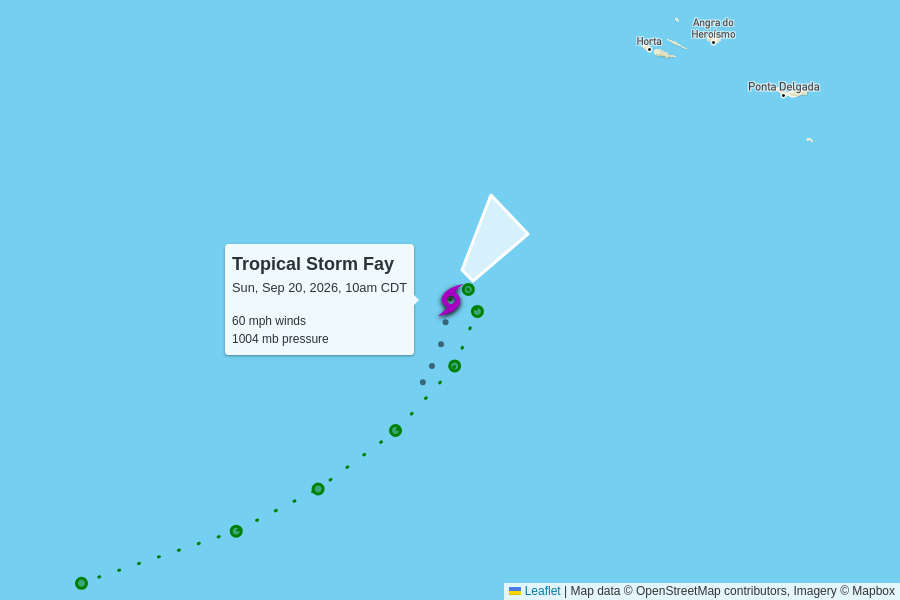
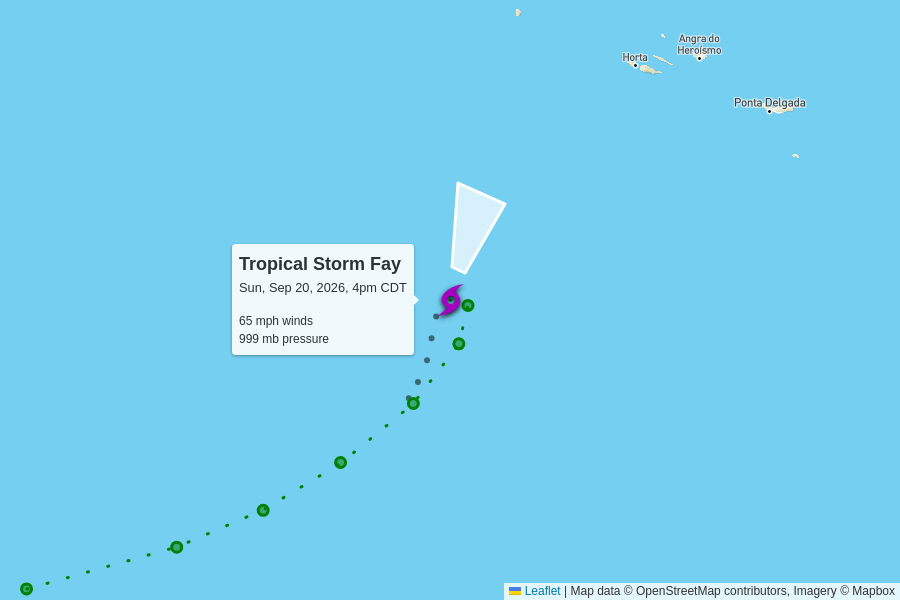
automatic update

diff --git a/docs/2026.html b/docs/2026.html
@@ -45,13 +45,13 @@
       <grid-container>
           <grid-row>
             <script type="text/json" id="storm_data_AL062026">
-              {"pressure":[{"timestamp":"2026-09-19T15:00:00.000Z","value":1009},{"timestamp":"2026-09-19T21:00:00.000Z","value":1007},{"timestamp":"2026-09-20T03:00:00.000Z","value":1007},{"timestamp":"2026-09-20T09:00:00.000Z","value":1004},{"timestamp":"2026-09-20T15:00:00.000Z","value":1004}],"wind":[{"timestamp":"2026-09-19T15:00:00.000Z","value":35},{"timestamp":"2026-09-19T21:00:00.000Z","value":35},{"timestamp":"2026-09-20T03:00:00.000Z","value":35},{"timestamp":"2026-09-20T09:00:00.000Z","value":45},{"timestamp":"2026-09-20T15:00:00.000Z","value":60}]}
+              {"pressure":[{"timestamp":"2026-09-19T15:00:00.000Z","value":1009},{"timestamp":"2026-09-19T21:00:00.000Z","value":1007},{"timestamp":"2026-09-20T03:00:00.000Z","value":1007},{"timestamp":"2026-09-20T09:00:00.000Z","value":1004},{"timestamp":"2026-09-20T15:00:00.000Z","value":1004},{"timestamp":"2026-09-20T21:00:00.000Z","value":999}],"wind":[{"timestamp":"2026-09-19T15:00:00.000Z","value":35},{"timestamp":"2026-09-19T21:00:00.000Z","value":35},{"timestamp":"2026-09-20T03:00:00.000Z","value":35},{"timestamp":"2026-09-20T09:00:00.000Z","value":45},{"timestamp":"2026-09-20T15:00:00.000Z","value":60},{"timestamp":"2026-09-20T21:00:00.000Z","value":65}]}
             </script>              <grid-container class="storm">
                 <grid-row onClick="toggle('storm_AL062026')">
                   <h2>
                     Tropical Storm Fay
                     <div class="updated">
-                      last updated <time datetime="2026-09-20T15:00:00.000Z">2026-09-20T15:00:00.000Z</time>
+                      last updated <time datetime="2026-09-20T21:00:00.000Z">2026-09-20T21:00:00.000Z</time>
                     </div>
                   </h2>
                 </grid-row>
@@ -67,19 +67,19 @@
                       </tr>
                       <tr>
                         <td>
-                          60 mph
+                          65 mph
                           <br>
-                          +15 mph since last update
+                          +5 mph since last update
                         </td>
                         <td>
-                          1004 mb
+                          999 mb
                           <br>
-                          0 mb since last update
+                          -5 mb since last update
                         </td>
                         <td>
-                          3 mph to the northeast
+                          6 mph to the north-northeast
                           <br>
-                          <span style="display: inline-block; font-size: 1.5em; transform: rotate(40deg);">↑</span>
+                          <span style="display: inline-block; font-size: 1.5em; transform: rotate(20deg);">↑</span>
                         </td>
                         <td>
                           <a href="https://raw.githubusercontent.com/mgwalker/atlantic-hurricanes/main/data/csv/AL062026.csv">AL062026.csv</a>

diff --git a/docs/index.html b/docs/index.html
@@ -45,13 +45,13 @@
       <grid-container>
           <grid-row>
             <script type="text/json" id="storm_data_AL062026">
-              {"pressure":[{"timestamp":"2026-09-19T15:00:00.000Z","value":1009},{"timestamp":"2026-09-19T21:00:00.000Z","value":1007},{"timestamp":"2026-09-20T03:00:00.000Z","value":1007},{"timestamp":"2026-09-20T09:00:00.000Z","value":1004},{"timestamp":"2026-09-20T15:00:00.000Z","value":1004}],"wind":[{"timestamp":"2026-09-19T15:00:00.000Z","value":35},{"timestamp":"2026-09-19T21:00:00.000Z","value":35},{"timestamp":"2026-09-20T03:00:00.000Z","value":35},{"timestamp":"2026-09-20T09:00:00.000Z","value":45},{"timestamp":"2026-09-20T15:00:00.000Z","value":60}]}
+              {"pressure":[{"timestamp":"2026-09-19T15:00:00.000Z","value":1009},{"timestamp":"2026-09-19T21:00:00.000Z","value":1007},{"timestamp":"2026-09-20T03:00:00.000Z","value":1007},{"timestamp":"2026-09-20T09:00:00.000Z","value":1004},{"timestamp":"2026-09-20T15:00:00.000Z","value":1004},{"timestamp":"2026-09-20T21:00:00.000Z","value":999}],"wind":[{"timestamp":"2026-09-19T15:00:00.000Z","value":35},{"timestamp":"2026-09-19T21:00:00.000Z","value":35},{"timestamp":"2026-09-20T03:00:00.000Z","value":35},{"timestamp":"2026-09-20T09:00:00.000Z","value":45},{"timestamp":"2026-09-20T15:00:00.000Z","value":60},{"timestamp":"2026-09-20T21:00:00.000Z","value":65}]}
             </script>              <grid-container class="storm">
                 <grid-row onClick="toggle('storm_AL062026')">
                   <h2>
                     Tropical Storm Fay
                     <div class="updated">
-                      last updated <time datetime="2026-09-20T15:00:00.000Z">2026-09-20T15:00:00.000Z</time>
+                      last updated <time datetime="2026-09-20T21:00:00.000Z">2026-09-20T21:00:00.000Z</time>
                     </div>
                   </h2>
                 </grid-row>
@@ -67,19 +67,19 @@
                       </tr>
                       <tr>
                         <td>
-                          60 mph
+                          65 mph
                           <br>
-                          +15 mph since last update
+                          +5 mph since last update
                         </td>
                         <td>
-                          1004 mb
+                          999 mb
                           <br>
-                          0 mb since last update
+                          -5 mb since last update
                         </td>
                         <td>
-                          3 mph to the northeast
+                          6 mph to the north-northeast
                           <br>
-                          <span style="display: inline-block; font-size: 1.5em; transform: rotate(40deg);">↑</span>
+                          <span style="display: inline-block; font-size: 1.5em; transform: rotate(20deg);">↑</span>
                         </td>
                         <td>
                           <a href="https://raw.githubusercontent.com/mgwalker/atlantic-hurricanes/main/data/csv/AL062026.csv">AL062026.csv</a>
